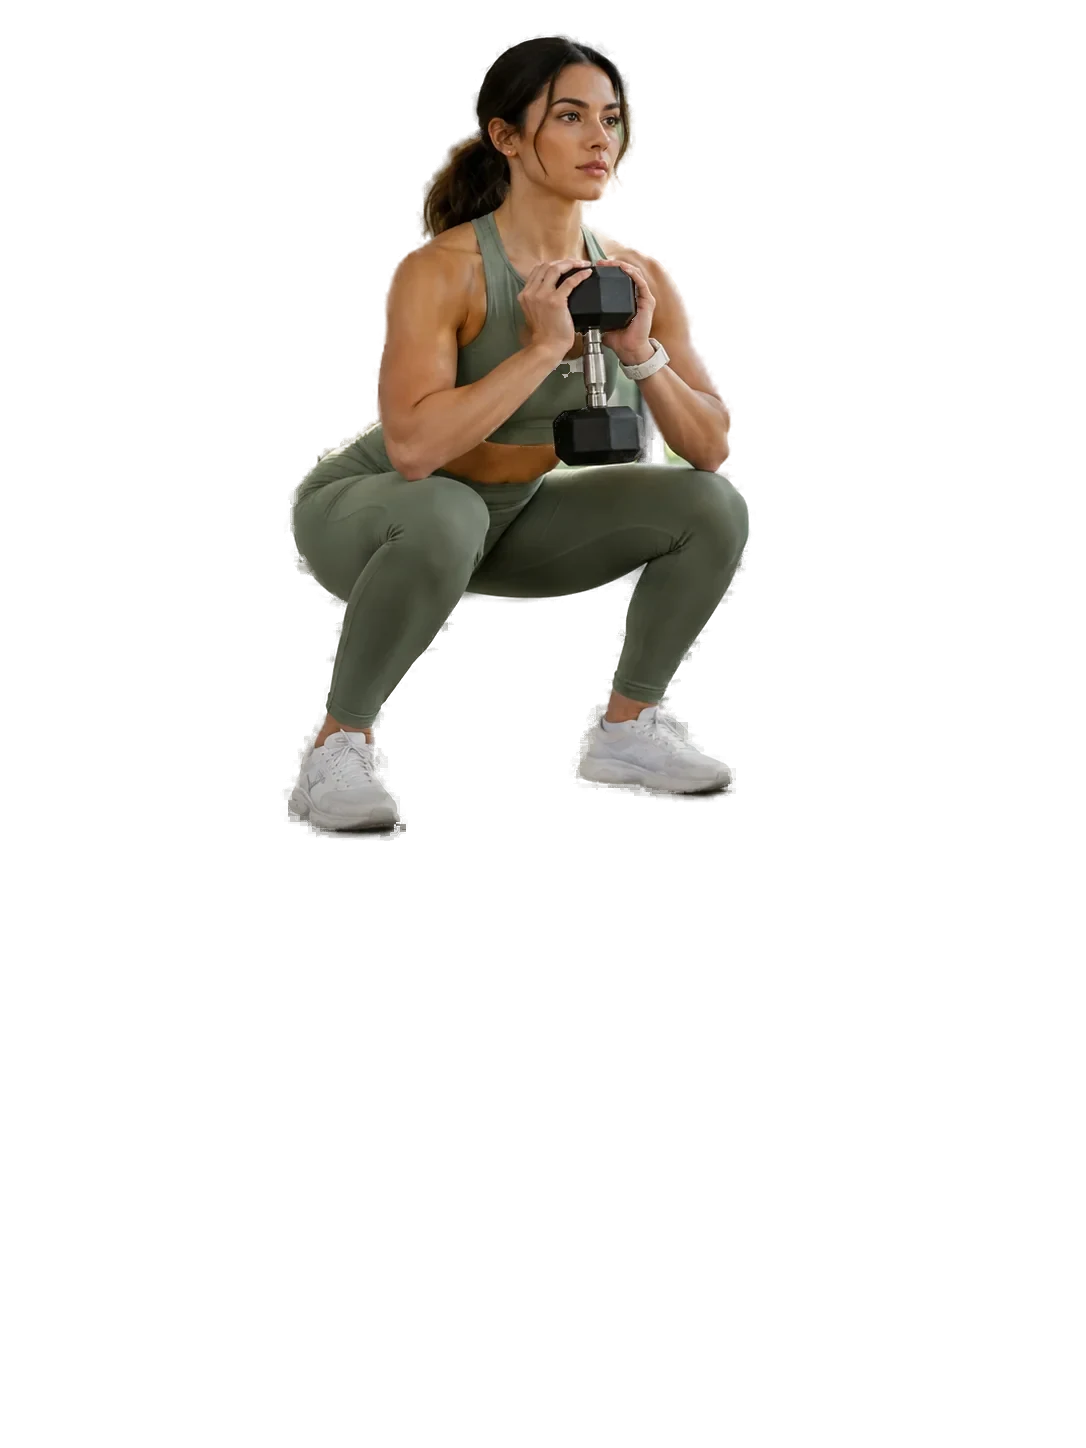
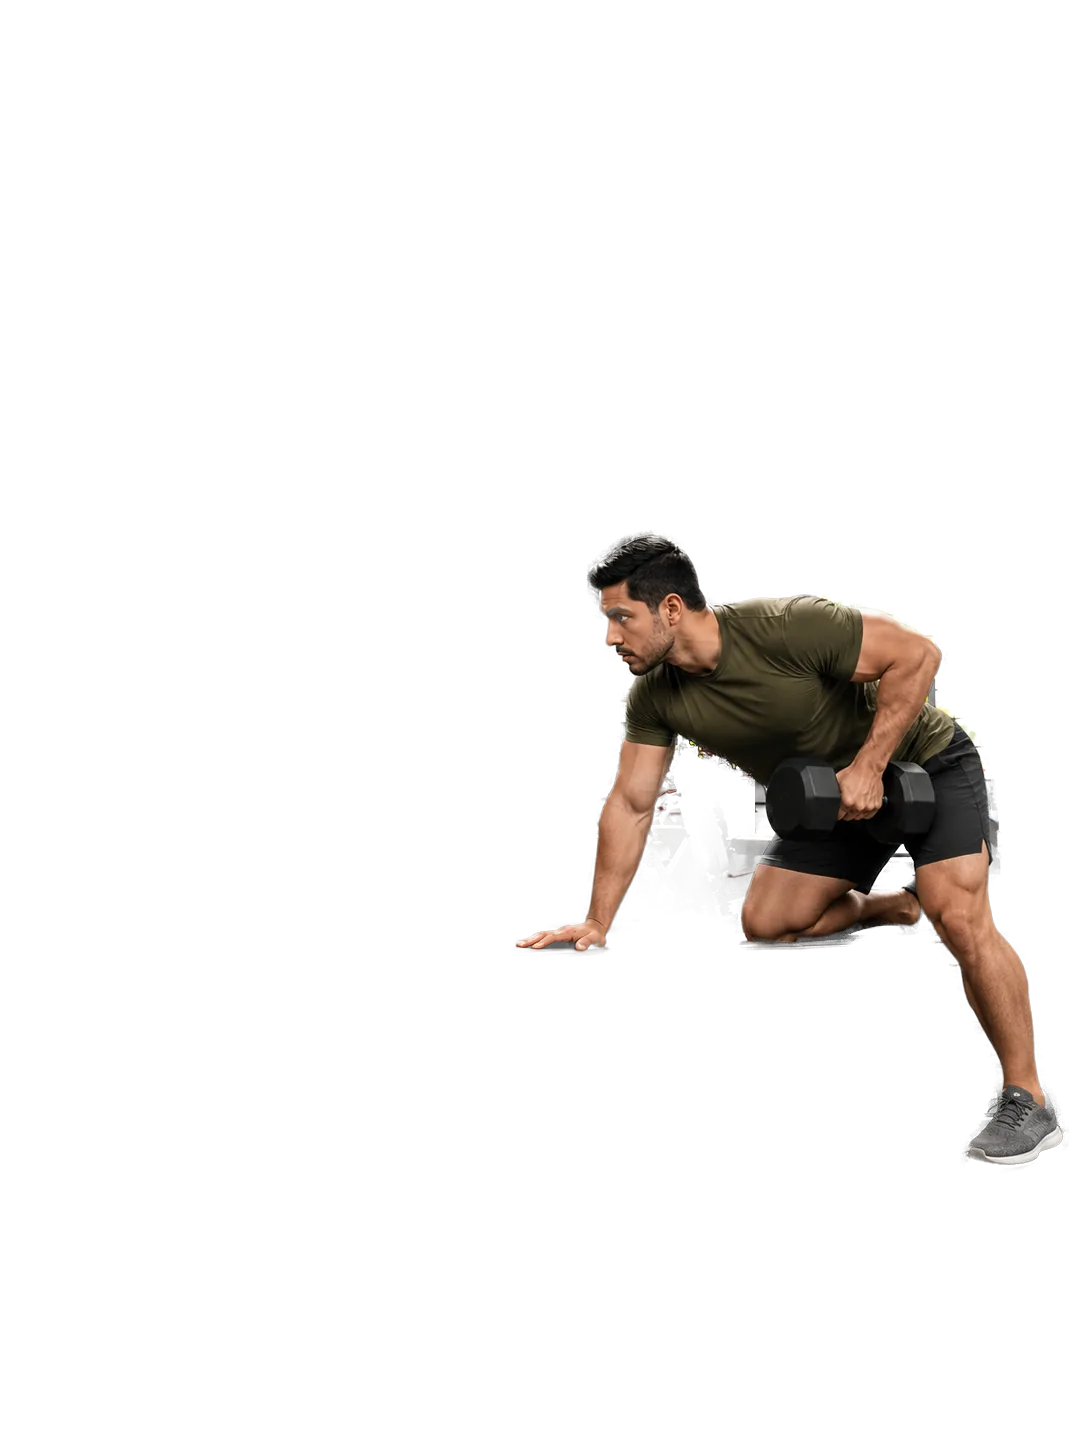
Portada, acceso e Inicio con la misma foto y transición entre pantallas
- La portada y el acceso usan la foto del remo (la de la chava queda en docs/fotos-anteriores/).
- js/76-transicion-portada.js: al pasar de la portada al acceso y del acceso a Inicio, la foto, la persona
  y el 12 arrancan donde estaban y se acomodan (FLIP con Web Animations, funciona en cualquier navegador).
- En Inicio, la primera vez por apertura (al entrar, al terminar la evaluación o al abrir con sesión),
  el 12 aparece en la tarjeta y se convierte en el entrenamiento de hoy; lo demás llega en cascada.
- Respeta reducir movimiento. Sube CACHE_VERSION a v94.

Claude-Session: https://claude.ai/code/session_01YU3tcYaMrH2QGHWSnPyYXZ

Changed region(s): [[0.2431, 0.0, 0.9724, 0.808]]

diff --git a/js/76-transicion-portada.js b/js/76-transicion-portada.js
@@ -1,0 +1,120 @@
+/* ═══ Reto Fit CCA · la foto que se queda: portada → acceso → Inicio ═══
+   Módulo cargado por index.html en orden (script clásico: comparte el ámbito global). Estilos en css/transicion.css.
+   · La portada, el acceso (s-login, s-registro) y la tarjeta de Inicio usan la misma foto y el mismo recorte.
+     Al pasar de la portada al acceso, y del acceso a Inicio, la foto, la persona y el 12 de la pantalla nueva
+     arrancan exactamente donde estaban en la anterior y se acomodan en su lugar (FLIP con Web Animations).
+     Funciona en cualquier navegador; si algo no se puede medir, el cambio es directo, como antes.
+   · La primera vez que se ve Inicio en cada apertura de la app (al entrar con la cuenta, al terminar la evaluación
+     o al abrir la app con la sesión iniciada), el 12 aparece en la tarjeta y se convierte en el entrenamiento de hoy.
+   · Con "reducir movimiento" no hay nada de esto. Para quitarlo: borrar este archivo y css/transicion.css
+     de index.html y sw.js. ═══ */
+
+const RF_POCO_MOV = () => !!(window.matchMedia && matchMedia('(prefers-reduced-motion: reduce)').matches);
+const RF_DUR = 850, RF_EASE = 'cubic-bezier(.16,1,.3,1)';
+let RF_INTRO = true;   // la siguiente vez que se pinte Inicio, el 12 se vuelve el entrenamiento
+
+// Rectángulo donde realmente se dibuja una foto con object-fit: cover (incluye la escala que tenga el elemento)
+function rfDibujo(img){
+  const r = img.getBoundingClientRect();
+  if(!r.width || !r.height) return null;
+  const nw = img.naturalWidth, nh = img.naturalHeight, cs = getComputedStyle(img);
+  if(!nw || !nh || cs.objectFit!=='cover') return {x:r.left, y:r.top, w:r.width, h:r.height};
+  const s = Math.max(r.width/nw, r.height/nh), w = nw*s, h = nh*s;
+  const [px,py] = (cs.objectPosition||'50% 50%').split(' ').map(v=>/%$/.test(v)?parseFloat(v)/100:0.5);
+  return {x:r.left+(r.width-w)*px, y:r.top+(r.height-h)*py, w, h};
+}
+// Las tres piezas compartidas de una pantalla: foto, persona recortada y número
+function rfPiezas(raiz){
+  if(!raiz) return null;
+  const vis = el => el && el.getClientRects().length && getComputedStyle(el).display!=='none' ? el : null;
+  const foto = vis(raiz.querySelector('.wc-pic img, .lg-ph:not(.lg-cut), .ci-bg'));
+  const cut = vis(raiz.querySelector('.wc-cut, .lg-cut, .ci-cut'));
+  const num = vis(raiz.querySelector('.wc-num, .lg-num, .rf-num'));
+  const d = el => { if(!el) return null; const s = el.tagName==='IMG' ? rfDibujo(el) : (()=>{ const sp=el.querySelector('span'); const r=(sp||el).getBoundingClientRect(); return r.height?{x:r.left,y:r.top,w:r.width,h:r.height}:null; })(); return s?{el, r:s}:null; };
+  return {foto:d(foto), cut:d(cut), num:d(num), src:foto?foto.currentSrc||foto.src:''};
+}
+// La pieza nueva arranca donde estaba la vieja y se acomoda
+function rfDesde(nuevo, viejo){
+  if(!nuevo || !viejo) return;
+  const el = nuevo.el, b = el.getBoundingClientRect(), k = viejo.r.h/nuevo.r.h;
+  if(!isFinite(k) || k<=0) return;
+  const tx = viejo.r.x - b.left - (nuevo.r.x - b.left)*k, ty = viejo.r.y - b.top - (nuevo.r.y - b.top)*k;
+  el.style.transformOrigin = '0 0';
+  const a = el.animate([{transform:`translate(${tx}px,${ty}px) scale(${k})`},{transform:'none'}],{duration:RF_DUR, easing:RF_EASE});
+  a.finished.catch(()=>{}).then(()=>{ el.style.transformOrigin=''; });
+}
+
+(function(){
+  if(typeof go!=='function') return;
+  const actual = () => { const s=document.querySelector('.sc.on'); return s?s.id:''; };
+  const _go = go;
+  window.go = go = function(id){
+    const de = actual();
+    if(id==='s-dash' && /^s-(login|registro|quiz)$/.test(de)) RF_INTRO = true;
+    const conFoto = (de==='s-inicio' && /^s-(login|registro)$/.test(id)) || (/^s-(login|registro)$/.test(de) && id==='s-dash');
+    if(!conFoto || RF_POCO_MOV() || !Element.prototype.animate){
+      const r = _go.apply(this,arguments);
+      if(id==='s-dash' && RF_INTRO){ try{ rfIntro(); }catch(e){} }   // al abrir la app con la sesión iniciada
+      return r;
+    }
+    let antes = null; try{ antes = rfPiezas(document.getElementById(de)); }catch(e){}
+    const r = _go.apply(this,arguments);
+    try{
+      if(id==='s-dash'){ try{ cineAjustar(document.getElementById('ci-scene')); }catch(e){} if(RF_INTRO){ try{ rfIntro(); }catch(e){} } }   // se pintó oculto: medir ya visible y poner el 12
+      const ahora = rfPiezas(document.getElementById(id==='s-dash'?'ci-scene':id));
+      // Solo si es la misma foto (con una foto propia de Apariencia en una pantalla y no en la otra, cambio directo)
+      if(antes && ahora && antes.foto && ahora.foto && antes.src && antes.src===ahora.src){
+        const raiz = document.documentElement; raiz.classList.add('rf-mov');
+        rfDesde(ahora.foto, antes.foto); rfDesde(ahora.cut, antes.cut); rfDesde(ahora.num, antes.num);
+        setTimeout(()=>raiz.classList.remove('rf-mov'), RF_DUR+50);
+      }
+    }catch(e){ console.warn('rf transición',e); }
+    return r;
+  };
+})();
+
+// ── En Inicio: el 12 se vuelve el entrenamiento de hoy ──
+function rfIntro(){
+  const sc = document.getElementById('ci-scene'), dash = document.getElementById('s-dash');
+  if(!RF_INTRO || !sc || !dash || !dash.classList.contains('on')) return;   // se espera a que Inicio esté en pantalla
+  RF_INTRO = false;
+  // Solo con la foto original del panel (el recorte de la persona va encima del número) y si se ve Inicio
+  if(RF_POCO_MOV() || !sc.classList.contains('con-recorte') || (typeof tabActiva==='function' && tabActiva()!=='inicio')) return;
+  const cam = sc.querySelector('.ci-cam'), t = sc.querySelector('.ci-title'), sec = document.getElementById('dsec-inicio');
+  if(!cam || !t) return;
+  const sem = String((typeof GYM!=='undefined' && GYM.reto && +GYM.reto.semanas) || 12);
+  const n = document.createElement('p'); n.className = 'rf-num'; n.setAttribute('aria-hidden','true');
+  n.innerHTML = sem.split('').map(c=>`<span>${c}</span>`).join('');
+  t.after(n);
+  sc.classList.add('rf-doce'); if(sec) sec.classList.add('rf-llega');
+  const forma = () => {
+    if(!n.isConnected) return;   // Inicio se volvió a pintar mientras tanto
+    if(document.documentElement.classList.contains('rf-mov')){ setTimeout(forma,120); return; }
+    // Cada cifra viaja al lugar del título (la primera a su inicio, la segunda más adelante) mientras se encoge
+    const tr = t.getBoundingClientRect();
+    [...n.children].forEach((s,i)=>{
+      const r = s.getBoundingClientRect();
+      s.style.setProperty('--dx', (tr.left + tr.width*(i?0.62:0.2) - (r.left + r.width/2)).toFixed(1)+'px');
+      s.style.setProperty('--dy', (tr.top + tr.height*0.5 - (r.top + r.height/2)).toFixed(1)+'px');
+    });
+    sc.classList.remove('rf-doce'); sc.classList.add('rf-forma');
+    setTimeout(()=>{ n.remove(); sc.classList.remove('rf-forma'); if(sec) sec.classList.remove('rf-llega'); }, 1700);
+  };
+  setTimeout(forma, 600);
+}
+if(typeof cineInicio==='function'){
+  const _ci = cineInicio;
+  window.cineInicio = cineInicio = function(){ const r=_ci.apply(this,arguments); try{ rfIntro(); }catch(e){ console.warn('rfIntro',e); } return r; };
+}
+// El título de Inicio ajusta su letra midiéndose; mientras espera agrandado (rf-doce) se mide con su tamaño real
+if(typeof cineAjustar==='function'){
+  const _ca = cineAjustar;
+  window.cineAjustar = cineAjustar = function(raiz){
+    const sc = document.getElementById('ci-scene'), t = sc && sc.classList.contains('rf-doce') ? sc.querySelector('.ci-title') : null;
+    if(!t) return _ca.apply(this,arguments);
+    const st = t.style, prev = [st.transition, st.scale, st.translate];
+    st.transition = 'none'; st.scale = '1'; st.translate = '0 0';
+    try{ return _ca.apply(this,arguments); }
+    finally{ st.scale = prev[1]; st.translate = prev[2]; void t.offsetWidth; st.transition = prev[0]; }
+  };
+}

diff --git a/css/transicion.css b/css/transicion.css
@@ -1,0 +1,27 @@
+/* ═══ Reto Fit CCA · la foto que se queda (js/76-transicion-portada.js) ═══
+   Portada, acceso e Inicio comparten foto, recorte y número. El movimiento entre pantallas lo hace el JS;
+   aquí van el encuadre de la portada y la animación del 12 que se vuelve el entrenamiento de hoy. ═══ */
+
+/* Portada con la foto del panel: la cámara se acerca desde abajo para que la cabeza quede delante del 12 */
+html[data-theme] #s-inicio.con-recorte .wc-pic .pic.fill img,
+html[data-theme] #s-inicio.con-recorte .wc-cut{transform-origin:46% 100%;scale:1.3;}
+
+/* ── Inicio: el 12 aparece en la tarjeta y se vuelve el entrenamiento de hoy ── */
+.rf-num{position:absolute;left:0;right:0;top:calc(64px + env(safe-area-inset-top,0px));margin:0;display:flex;justify-content:space-between;padding:0 6% 0 4%;
+  font:italic 800 min(60vw,250px)/.74 var(--fd);color:var(--cine-acc);pointer-events:none;user-select:none;-webkit-user-select:none;}
+.rf-num span{display:block;transition:translate .76s var(--cine-expo) .06s,scale .76s var(--cine-expo) .06s,opacity .52s var(--cine-out) .14s,filter .52s var(--cine-out) .14s;}
+.ci-scene.rf-forma .rf-num span{translate:var(--dx,0) var(--dy,0);scale:.2;opacity:0;filter:blur(6px);}
+.ci-scene.rf-doce .ci-title,.ci-scene.rf-forma .ci-title{transform-origin:0 50%;}
+.ci-scene.rf-doce .ci-title{opacity:0;translate:10px -70px;scale:1.9;filter:blur(10px);}
+.ci-scene.rf-forma .ci-title{transition:opacity .52s var(--cine-expo) .2s,translate .9s var(--cine-expo) .14s,scale .9s var(--cine-expo) .14s,filter .62s var(--cine-expo) .2s;}
+.ci-scene.rf-doce .ci-ln>span,.ci-scene.rf-forma .ci-ln>span,.ci-scene.rf-doce .ci-cam,.ci-scene.rf-forma .ci-cam{animation:none!important;}
+/* lo demás de Inicio llega en cascada */
+#dsec-inicio.rf-llega .ih-reto{animation:rf-sube .8s var(--cine-expo) .55s both;}
+#dsec-inicio.rf-llega .ih-meta{animation:rf-sube .8s var(--cine-expo) .7s both;}
+#dsec-inicio.rf-llega .ih-compa{animation:rf-sube .8s var(--cine-expo) .8s both;}
+#dsec-inicio.rf-llega .ih-sem{animation:rf-sube .8s var(--cine-expo) .9s both;}
+@keyframes rf-sube{from{opacity:0;translate:0 22px;}}
+
+@media (prefers-reduced-motion:reduce){
+  .rf-num{display:none;}
+}

diff --git a/index.html b/index.html
@@ -42,6 +42,7 @@ S.removeItem=function(x){return this===L?r.call(this,k(x)):r.call(this,x);};
 <link rel="stylesheet" href="css/escritorio.css">
 <link rel="stylesheet" href="css/plan-nutri.css">
 <link rel="stylesheet" href="css/nutricion-socio.css">
+<link rel="stylesheet" href="css/transicion.css">
 <!-- Red de seguridad: si la página abrió sin estilos o sin código (señal que se cortó a media actualización), se recarga una vez -->
 <script>window.addEventListener("load",function(){var ok=!!getComputedStyle(document.documentElement).getPropertyValue("--lime").trim()&&typeof showToast==="function";try{if(ok){sessionStorage.removeItem("recargaApp");}else if(!sessionStorage.getItem("recargaApp")){sessionStorage.setItem("recargaApp","1");location.reload();}}catch(e){}});</script>
 </head>
@@ -950,6 +951,7 @@ S.removeItem=function(x){return this===L?r.call(this,k(x)):r.call(this,x);};
 <script defer src="js/72-clases-recuestionario.js"></script>
 <script defer src="js/73-actividad-medida.js"></script>
 <script defer src="js/74-clases-vista.js"></script>
+<script defer src="js/76-transicion-portada.js"></script>
 <script defer src="js/99-arranque.js"></script>
 
 <!-- ═══ MODAL AVISO DE PRIVACIDAD ═══ -->

diff --git a/sw.js b/sw.js
@@ -8,7 +8,7 @@
    → Los datos de Firebase NUNCA pasan por aquí (van directo).
    → Al desplegar cambios, sube CACHE_VERSION.
    ════════════════════════════════════════════════════════ */
-const CACHE_VERSION = 'retofit-cca-v93';
+const CACHE_VERSION = 'retofit-cca-v94';
 const PRECACHE_LOCAL = [
   './',
   './index.html',
@@ -20,6 +20,7 @@ const PRECACHE_LOCAL = [
   './css/escritorio.css',
   './css/plan-nutri.css',
   './css/nutricion-socio.css',
+  './css/transicion.css',
   './js/config.js',
   './js/00-conocimiento.js',
   './js/01-datos-firebase.js',
@@ -88,6 +89,7 @@ const PRECACHE_LOCAL = [
   './js/72-clases-recuestionario.js',
   './js/73-actividad-medida.js',
   './js/74-clases-vista.js',
+  './js/76-transicion-portada.js',
   './img/qr/app.png',
   './js/22-resumen-coordinacion.js',
   './js/23-conocimiento-staff.js',
